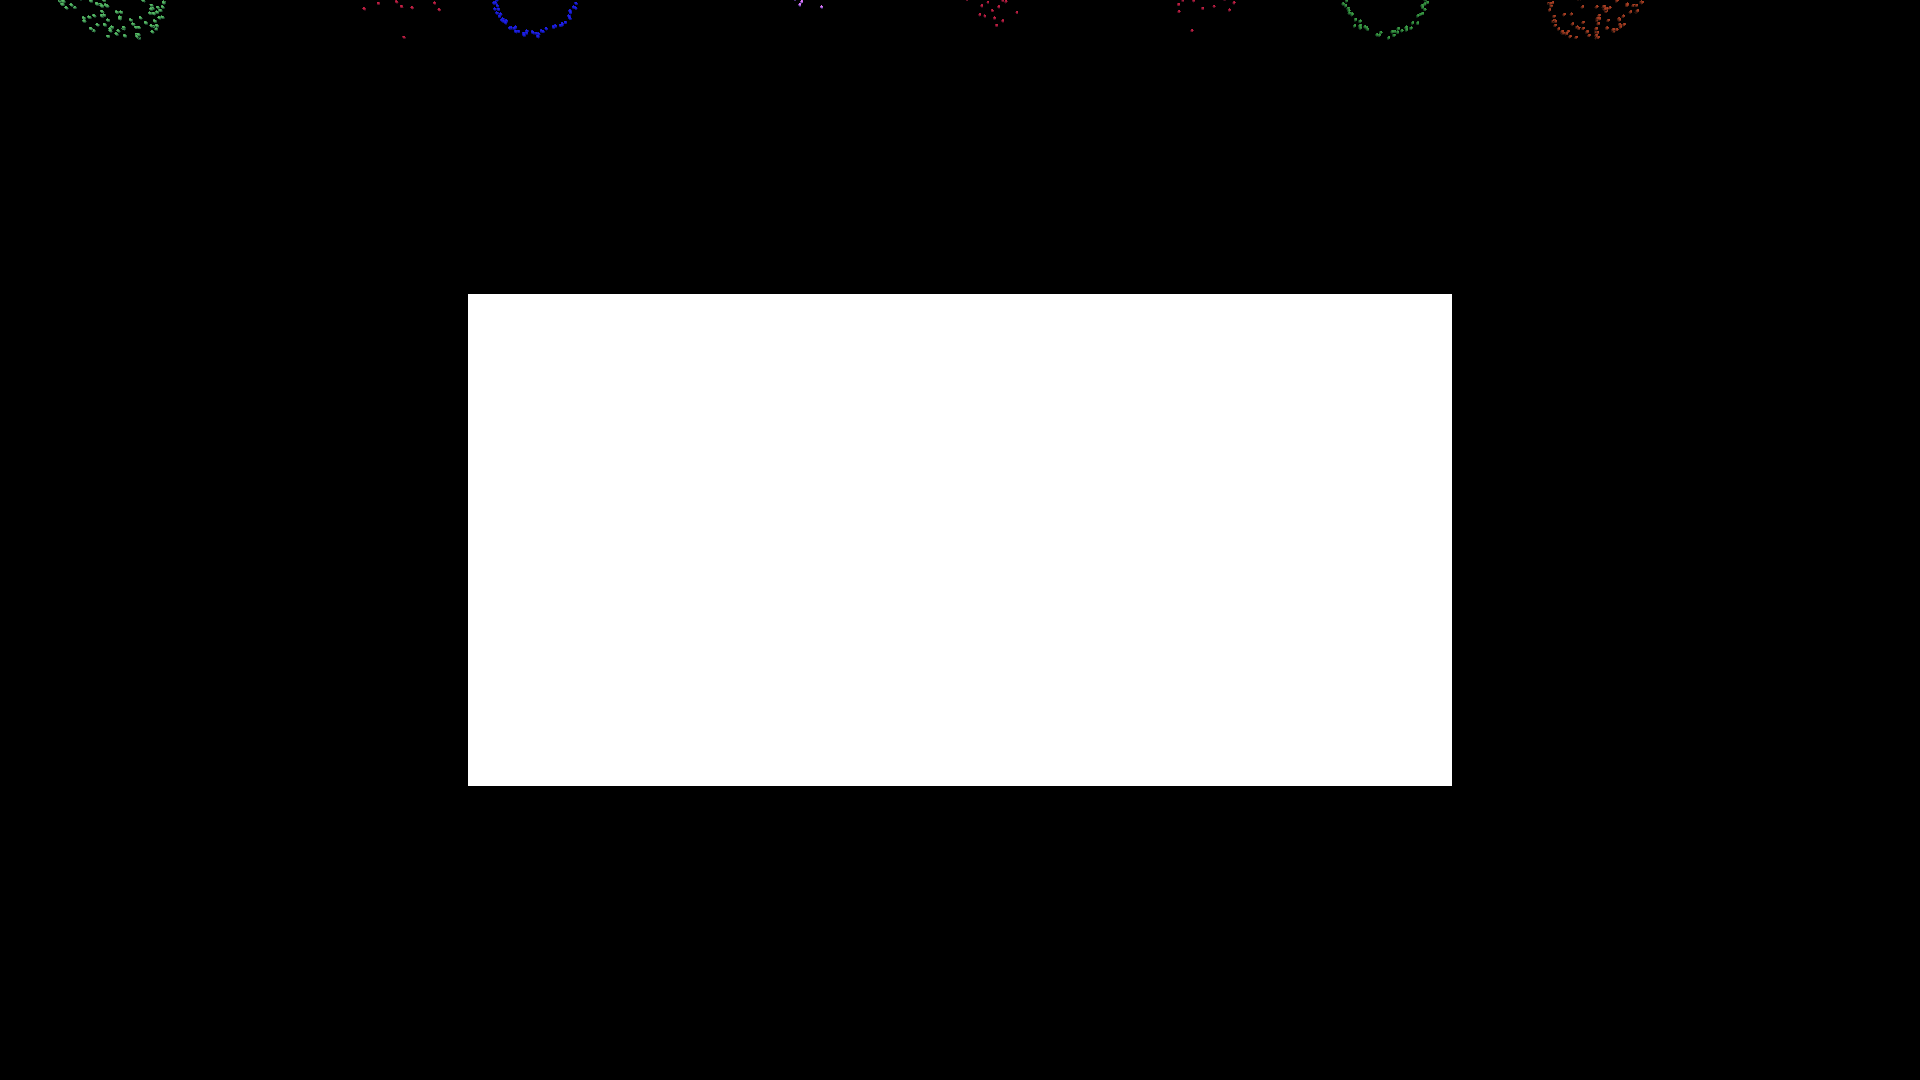
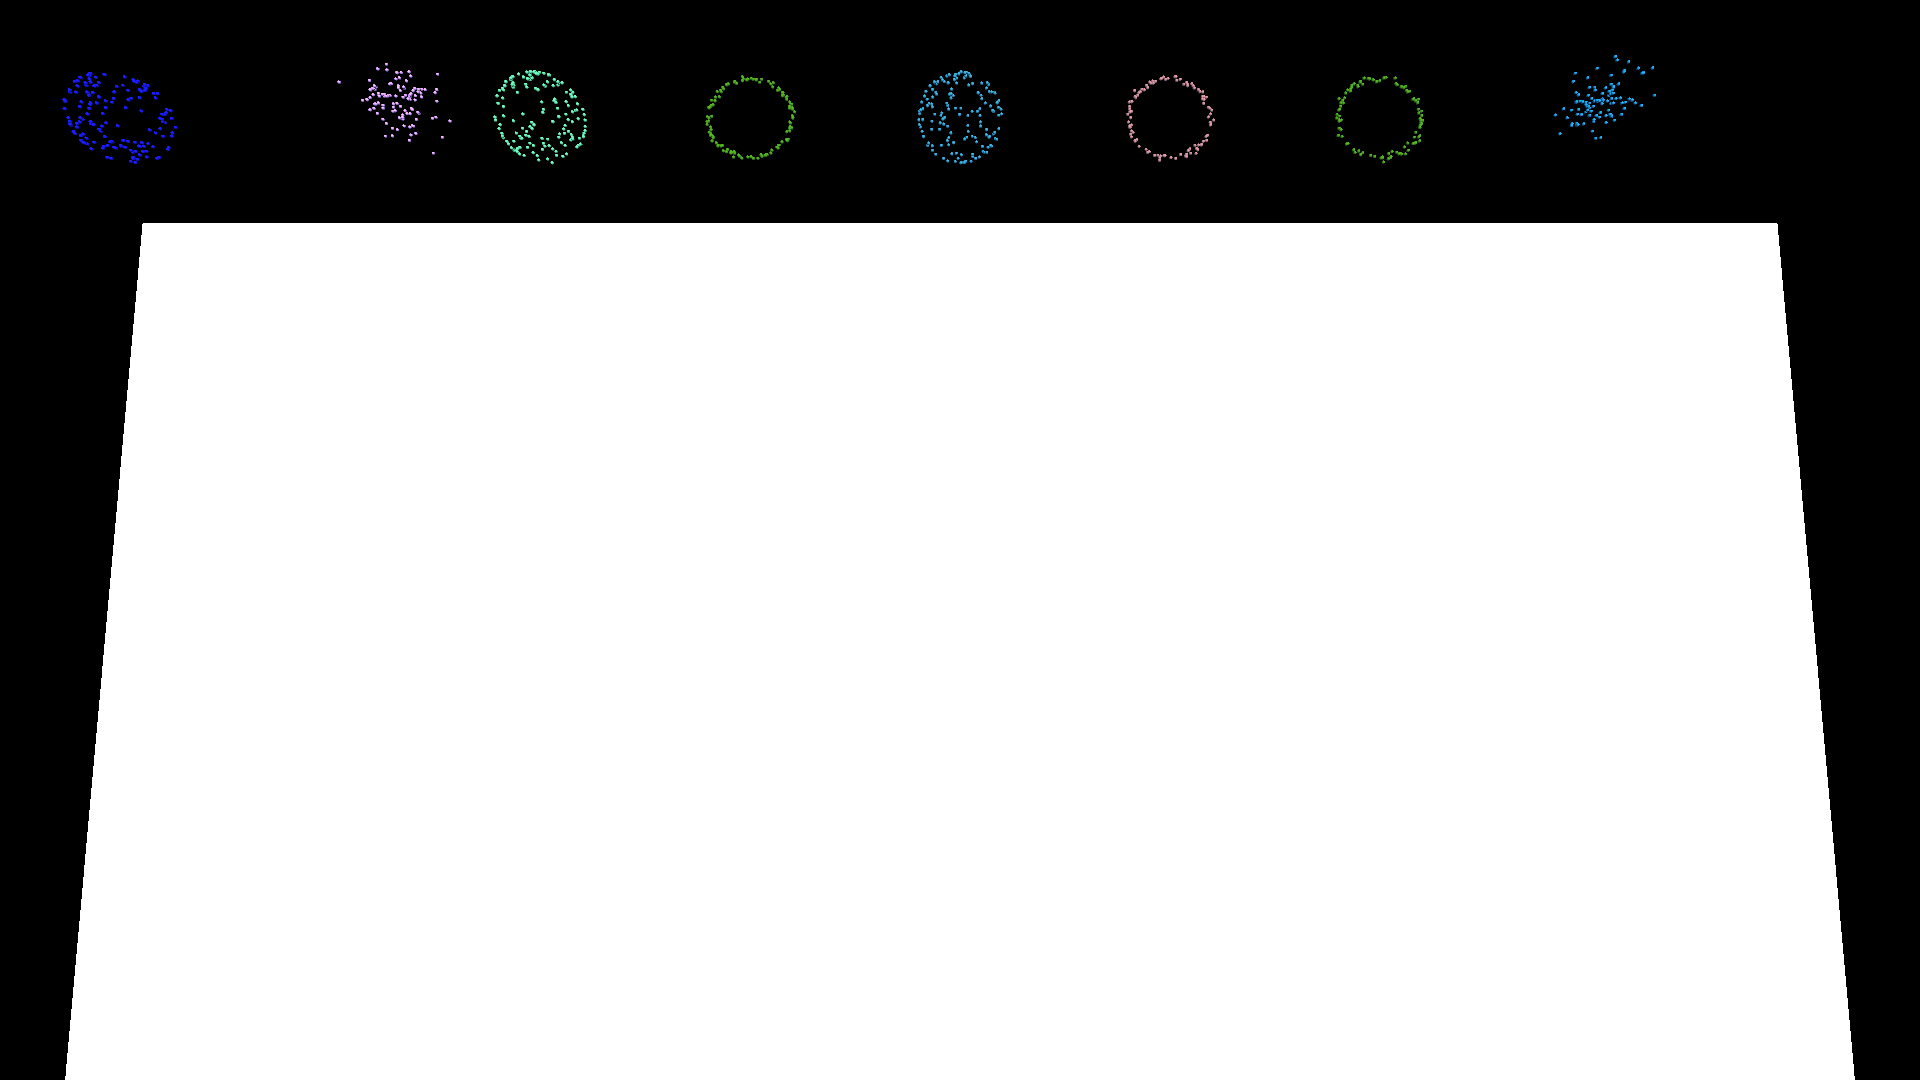
retoques

diff --git a/skeleton/Systems/PaintSystem.cpp b/skeleton/Systems/PaintSystem.cpp
@@ -18,7 +18,7 @@ PaintSystem::PaintSystem(PxScene* gScene, PxPhysics* gPhysics)
 
 
 	//canvas
-	_canvas = new Rigidbody(PxTransform({ 10,0,0 }), { 0.0,0.0,0.0 }, { 1,5,10 }, { 1,1,1,.1 }, 1.0, -1, -1, gScene, gPhysics, true, false, Rigidbody::CANVAS);
+	_canvas = new Rigidbody(PxTransform({ 6,0,0 }), { 0.0,0.0,0.0 }, { 1,5,10 }, { 1,1,1,.1 }, 1.0, -1, -1, gScene, gPhysics, true, false, Rigidbody::CANVAS);
 
 	//pincel
 	_pincel = new GaussianRBGenerator(GetCamera()->getTransform().p - GetCamera()->getDir(), GetCamera()->getDir() * _speed, { 0.0,0.0,0.0 }, { 0.0,0.0,0.0 }, 1, 1);
@@ -33,7 +33,7 @@ PaintSystem::PaintSystem(PxScene* gScene, PxPhysics* gPhysics)
 	//clear
 	_clear = new WindForceGeneratorRB(1, 0, { 0.0,0.0,0.0 }, 50, { 0,0,0 });
 	_clear->setActive(true);
-	_clear2 = new WhirlwindForceGeneratorRB(1, 0, 2, 200, { 5,0,0 });
+	_clear2 = new WhirlwindForceGeneratorRB(1, 0, 2, 200, { 1,0,0 });
 	_clear2->setActive(true);
 
 
@@ -167,15 +167,15 @@ void PaintSystem::setThickness(bool thicker)
 	Vector3 _anchura = _pincel->getDevPos();
 
 	if (thicker) {
-		float anch = min(_anchura.x + 0.1, 1.0);
+		float anch = min(_anchura.x + 0.05, 0.5);
 		_anchura = Vector3(anch, anch, anch);
 	}
 	else {
-		float anch = max(_anchura.x - 0.1, 0.0);
+		float anch = max(_anchura.x - 0.05, 0.0);
 		_anchura = Vector3(anch, anch, anch);
 	}
 
-	int numPar = _anchura.x * 10 + 1; // cada 0.1 de anchura son 10 particulas
+	int numPar = _anchura.x * 20 + 1;
 
 	_pincel->setDevPos(_anchura);
 	_borrador->setDevPos(_anchura);
@@ -253,7 +253,7 @@ void PaintSystem::prepareScreenshot() {
 	}
 
 	//posiciona la camara e impide que se mueva
-	GetCamera()->setDir(Vector3(1.0, 0, 0));
+	GetCamera()->setDir(Vector3(1.0, 0.1f, 0));
 	GetCamera()->setLock(true);
 
 	_paint = false;

diff --git a/skeleton/Particles/Rigidbody.cpp b/skeleton/Particles/Rigidbody.cpp
@@ -82,7 +82,7 @@ void Rigidbody::integrate(double t)
 		new_solid->setLinearVelocity({ 0.0,0.0,0.0 });
 		new_solid->setAngularVelocity({ 0.0,0.0,0.0 });
 		new_solid->setRigidBodyFlag(PxRigidBodyFlag::eKINEMATIC, true); //para que no afecten las colisiones
-		new_solid->setGlobalPose(PxTransform(9.4, new_solid->getGlobalPose().p.y, new_solid->getGlobalPose().p.z));//set the position of the paint in the canvas
+		new_solid->setGlobalPose(PxTransform(5.5, new_solid->getGlobalPose().p.y, new_solid->getGlobalPose().p.z));//set the position of the paint in the canvas
 		//new_solid->setActorFlag(PxActorFlag::eDISABLE_SIMULATION, true);//stops the simulation of the paint
 
 	}
